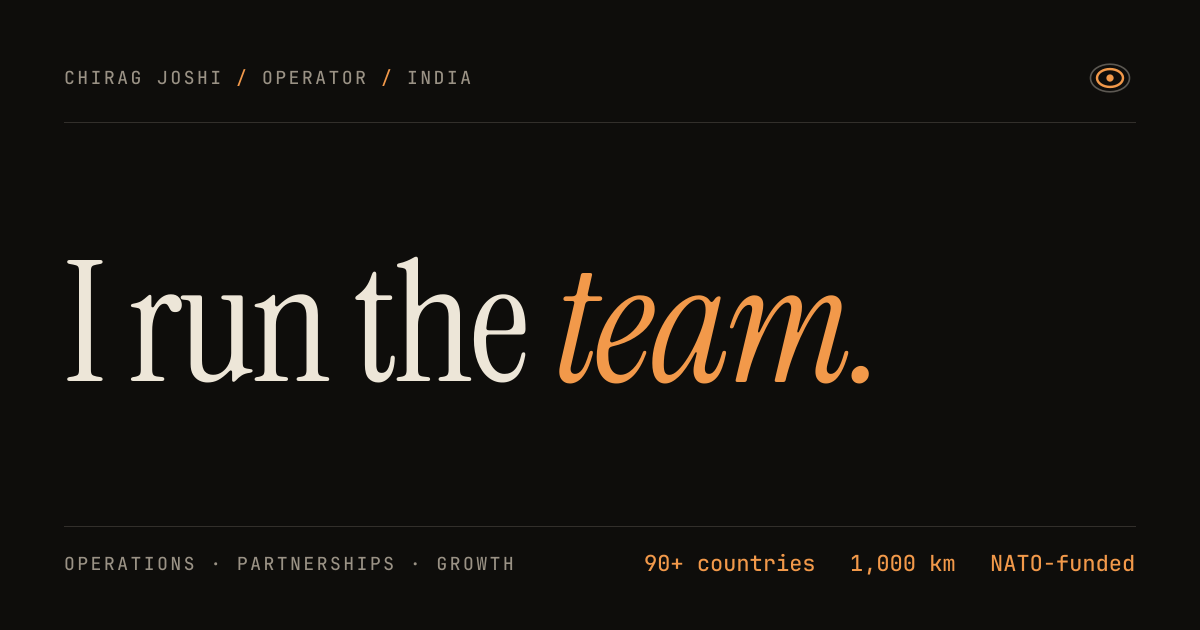
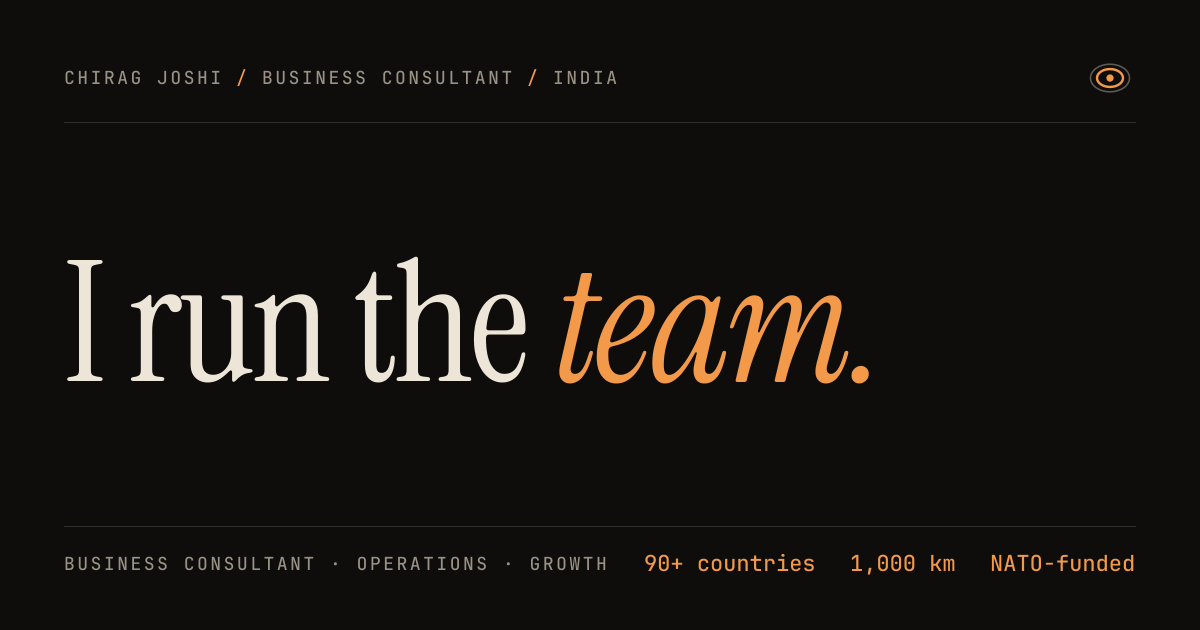
Business consultant positioning, MicroMasters mark, unclippable roll
- Present Chirag as a business consultant: hero label and intro line,
  meta title and description, About paragraph, skills, status pill,
  loading screen and OG image.
- MicroMasters gets a superscript registered mark (About card,
  timeline, About text); drop the word Registered from the MIT details.
- The rolling hero word no longer sits in a clipping box; it fades and
  rises in, so overhanging italic letters (the f in funding) can never
  be cut off in any browser.

Changed region(s): [[0.0617, 0.8746, 0.5242, 0.9048], [0.2158, 0.0905, 0.4317, 0.1508], [0.4625, 0.0905, 0.5242, 0.1508]]

diff --git a/src/content/site.ts b/src/content/site.ts
@@ -8,19 +8,19 @@ export const site = {
   phoneHref: "tel:+916389227333",
   linkedin: "https://www.linkedin.com/in/cj-ceo-vm/",
   location: "India",
-  title: "Chirag Joshi · Operations, Partnerships & Growth",
+  title: "Chirag Joshi · Business Consultant, Operations & Growth",
   description:
-    "Operations, partnerships and growth. Secured conference funding from NATO, built a phone-photography community across 90+ countries, and ran 1,000 km in 100 days for flood relief.",
+    "Business consultant working across operations, partnerships and growth. Secured conference funding from NATO, built a phone-photography community across 90+ countries, and ran 1,000 km in 100 days for flood relief.",
 };
 
 export const hero = {
-  label: ["Chirag Joshi", "Operator", "India"],
-  // Line 2 ends with a rolling word. The first entry is shown first.
+  label: ["Chirag Joshi", "Business Consultant", "India"],
+  // The headline ends with a rolling word. The first entry is shown first.
   line: "I run the",
   rolling: ["team.", "project.", "growth.", "GTM.", "funding."],
   subline:
-    "Operations, partnerships and growth. Former founder. I've secured conference funding from NATO, built a photography community across 90+ countries, and ran 1,000 km in 100 days to raise money for flood relief.",
-  status: "Open to ops, growth and Founder's Office roles",
+    "Business consultant across operations, partnerships and growth. Former founder. I've secured conference funding from NATO, built a photography community across 90+ countries, and ran 1,000 km in 100 days to raise money for flood relief.",
+  status: "Open to consulting, ops, growth and Founder's Office roles",
 };
 
 export type StatIcon = "globe" | "continents" | "route" | "signal" | "donors" | "doc" | "podium" | "people";
@@ -314,7 +314,7 @@ export const also = [
 ];
 
 export const about = {
-  body: "I'm Chirag. I studied Political Science at Jadavpur University and I'm doing MIT's MicroMasters in Data, Economics and Design of Policy. I founded and ran Visual Merge, a phone-photography community and nonprofit, worked as a business consultant at Universal Hunt, and lead grants and engagements at The Geostrata, India's largest youth think tank.",
+  body: "I'm Chirag. I work as a business consultant across operations, partnerships and growth. I studied Political Science at Jadavpur University and I'm doing MIT's MicroMasters® in Data, Economics and Design of Policy. I've been a business consultant at Universal Hunt, founded and ran Visual Merge, a phone-photography community and nonprofit, and lead grants and engagements at The Geostrata, India's largest youth think tank.",
   close:
     "I like work where someone has to find the money, line up the people and make sure it actually happens. Long term, I want to build in human longevity.",
   // About card. title = main line, lines = smaller lines under it, badge = highlighted figure.
@@ -322,13 +322,14 @@ export const about = {
     { k: "Based in", title: "India" },
     { k: "Degree", title: "BA (Hons) Political Science", lines: ["Jadavpur University, 2024"], badge: "8.6 GPA" },
     {
-      k: "MicroMasters",
+      k: "MicroMasters®",
       title: "Data, Economics and Design of Policy",
-      lines: ["Massachusetts Institute of Technology", "Registered, expected 2027"],
+      lines: ["Massachusetts Institute of Technology", "Expected 2027"],
     },
     { k: "Diploma", title: "Media Literacy", lines: ["U.S. Department of State, 2023"] },
   ] as { k: string; title: string; lines?: string[]; badge?: string }[],
   skills: [
+    "Business consulting",
     "Partnerships",
     "Fundraising",
     "Programme ops",
@@ -377,10 +378,10 @@ export const timeline: TimelineItem[] = [
     detail: "Equity & Diversity Officer, Debating Society.",
   },
   {
-    org: "MIT MicroMasters",
+    org: "MIT MicroMasters®",
     role: "Data, Economics and Design of Policy",
     when: "Expected 2027",
-    detail: "Massachusetts Institute of Technology. Registered.",
+    detail: "Massachusetts Institute of Technology.",
   },
   { org: "U.S. Department of State", role: "Diploma in Media Literacy", when: "2023" },
 ];

diff --git a/src/components/Sections.tsx b/src/components/Sections.tsx
@@ -1,6 +1,7 @@
 import { about, also, now, site, timeline } from "@/content/site";
 import { img } from "@/lib/asset";
 import { Reveal } from "./Reveal";
+import { Reg } from "./Reg";
 import { TimelineRail } from "./TimelineRail";
 import { ParallaxImage } from "./visuals/ParallaxImage";
 
@@ -71,7 +72,7 @@ export function About() {
               <dl className="grid flex-1 content-start gap-3.5 text-sm">
                 {about.facts.map((f) => (
                   <div key={f.k} className="border-b border-line pb-3 last:border-0 last:pb-0">
-                    <dt className="label text-[10px]">{f.k}</dt>
+                    <dt className="label text-[10px]"><Reg text={f.k} /></dt>
                     <dd className="mt-1.5">
                       <span className="block leading-snug text-paper">{f.title}</span>
                       {f.lines?.map((l) => (
@@ -92,7 +93,7 @@ export function About() {
             <p className="display text-[clamp(3rem,7vw,6rem)] text-paper">{first}.</p>
           </Reveal>
           <Reveal delay={0.08}>
-            <p className="mt-8 max-w-[52ch] text-lg leading-relaxed text-paper/80 sm:text-xl">{rest.join(". ")}</p>
+            <p className="mt-8 max-w-[52ch] text-lg leading-relaxed text-paper/80 sm:text-xl"><Reg text={rest.join(". ")} /></p>
           </Reveal>
           <Reveal delay={0.12}>
             <blockquote className="mt-10 border-l-2 border-apricot pl-6">

diff --git a/src/app/globals.css b/src/app/globals.css
@@ -157,11 +157,6 @@ html.lenis body {
   padding-right: 0.04em;
 }
 
-/* Rolling italic word: extra room for slanted overhangs and deep descenders (g, p, j). */
-.mask-roll {
-  padding: 0.14em 0.25em 0.34em 0.22em;
-  margin: -0.14em -0.25em -0.34em -0.22em;
-}
 
 .uline {
   background-image: linear-gradient(currentColor, currentColor);
@@ -382,6 +377,18 @@ html:not(.js) .candles .avg {
   animation: draw 2s var(--ease-in-out-quart) 0.6s forwards;
 }
 
+/* Rolling italic word: fades and rises in (no clip), so overhanging letters are never cut */
+.roll-in {
+  display: inline-block;
+  opacity: 0;
+  transform: translateY(0.3em);
+  animation: roll-in 1s var(--ease-out-expo) forwards;
+  animation-delay: calc(var(--intro-delay) + var(--i, 0) * 70ms);
+}
+@keyframes roll-in {
+  to { opacity: 1; transform: none; }
+}
+
 /* Pulsing status dot */
 .pulse {
   position: relative;
@@ -414,6 +421,10 @@ html:not(.js) .candles .avg {
 /* ---------- Reduced motion: everything becomes a simple fade ---------- */
 @media (prefers-reduced-motion: reduce) {
   .intro { display: none; }
+  .roll-in {
+    transform: none;
+    animation: fade-in 0.6s ease forwards;
+  }
   .rise {
     transform: none;
     opacity: 0;

diff --git a/src/components/TimelineRail.tsx b/src/components/TimelineRail.tsx
@@ -4,6 +4,7 @@ import { m, useReducedMotion, useScroll, useSpring } from "motion/react";
 import { useRef } from "react";
 import type { TimelineItem } from "@/content/site";
 import { Reveal } from "./Reveal";
+import { Reg } from "./Reg";
 
 export function TimelineRail({ items }: { items: TimelineItem[] }) {
   const ref = useRef<HTMLOListElement>(null);
@@ -23,7 +24,7 @@ export function TimelineRail({ items }: { items: TimelineItem[] }) {
         <Reveal as="li" key={it.org} delay={0.04} className={`relative ${i === items.length - 1 ? "" : "pb-12 sm:pb-14"}`}>
           <span className="absolute -left-8 top-[0.55rem] h-[11px] w-[11px] rounded-full border border-apricot bg-ink sm:-left-12" aria-hidden="true" />
           <div className="flex flex-wrap items-baseline justify-between gap-x-6 gap-y-1">
-            <h3 className="display text-[1.9rem] leading-tight text-paper sm:text-[2.4rem]">{it.org}</h3>
+            <h3 className="display text-[1.9rem] leading-tight text-paper sm:text-[2.4rem]"><Reg text={it.org} /></h3>
             {it.when && <p className="label">{it.when}</p>}
           </div>
           {it.ladder ? (

diff --git a/src/components/Hero.tsx b/src/components/Hero.tsx
@@ -49,10 +49,10 @@ export function Hero() {
         <div className="flex flex-1 flex-col justify-center py-10 sm:py-14">
           <h1 className="display text-[clamp(3rem,12.5vw,10.5rem)] text-paper">
             <Words text={hero.line} start={0} />
-            <span className="mask mask-roll">
-              <span className="rise" style={{ ["--i" as string]: n }}>
-                <RollingWord words={hero.rolling} />
-              </span>
+            {/* No clipping box here on purpose: italic letters like the f in "funding"
+                overhang their box, so this word fades and rises in instead of using a mask. */}
+            <span className="roll-in" style={{ ["--i" as string]: n }}>
+              <RollingWord words={hero.rolling} />
             </span>
           </h1>
 

diff --git a/src/components/Reg.tsx b/src/components/Reg.tsx
@@ -1,0 +1,17 @@
+// Renders text with any ® set as a small superscript mark (like an exponent).
+export function Reg({ text }: { text: string }) {
+  if (!text.includes("®")) return <>{text}</>;
+  const parts = text.split("®");
+  return (
+    <>
+      {parts.map((p, i) => (
+        <span key={i}>
+          {p}
+          {i < parts.length - 1 && (
+            <sup className="relative -top-[0.1em] ml-[0.08em] align-super text-[0.55em] leading-none tracking-normal opacity-80">®</sup>
+          )}
+        </span>
+      ))}
+    </>
+  );
+}

diff --git a/src/app/layout.tsx b/src/app/layout.tsx
@@ -108,7 +108,7 @@ export default function RootLayout({ children }: { children: React.ReactNode }) 
               <span className="intro-bar" />
             </div>
             <div className="intro-meta">
-              <span>Operations · Partnerships · Growth</span>
+              <span>Business Consultant · Operations · Growth</span>
               <span className="intro-num" />
             </div>
           </div>
